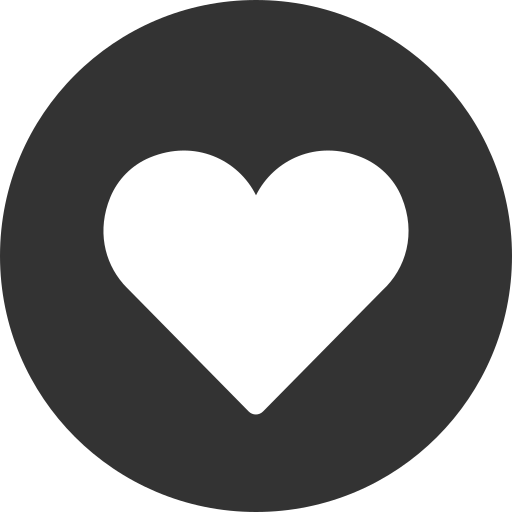
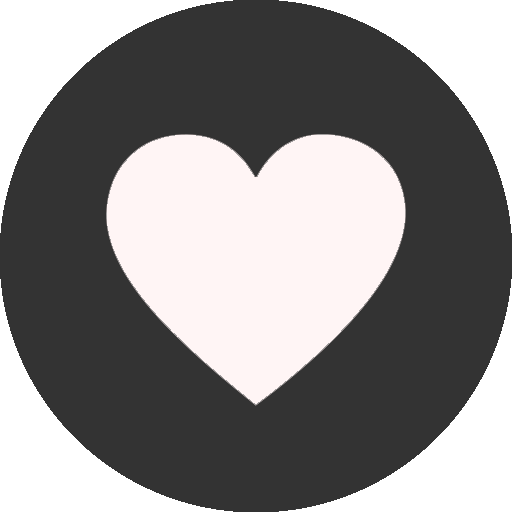
myfavsbtn

diff --git a/src/acflix/css/index.css b/src/acflix/css/index.css
@@ -422,13 +422,14 @@ select{
     margin: 0 auto;
     display: block;
     margin-bottom:10px;
+    position: relative;
 }
 .input-file-button img{
     width:45px;
     height:45px;
     position: absolute;
     left:52.5%;
-    top:9%;
+    top:14%;
     cursor: pointer;
 }
 .user-profile2 li:hover,
@@ -473,16 +474,15 @@ button.btn_img:hover {
 }
 
 /* 찜목록 */
-.favbtn {
-    --c: red;
-    width: 30px;
-    aspect-ratio: 1;
-    background:
-     /* 1 */ radial-gradient(circle at 60% 65%,var(--c) 64%,#0000 65%) top left/50% 50%,
-     /* 2 */ radial-gradient(circle at 40% 65%,var(--c) 64%,#0000 65%) top right/50% 50%,
-     /* 3 */ conic-gradient(from -45deg at 50% 85.5%,var(--c) 90deg,#0000 0) bottom/100% 50%;
-    background-repeat: no-repeat;
-    margin-top:6px;
+.favbtn{
+    margin: 0;
+    padding:0;
+}
+.favbtn img{
+    width:30px;
+    height:30px;
+    margin:0;
+    padding:0;
 }
 
 /* 검색창 페이지 */
